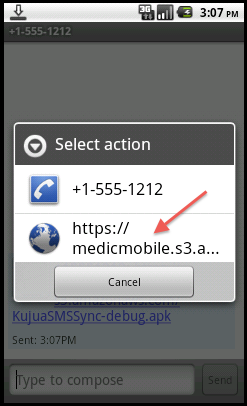
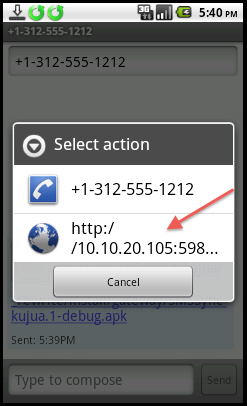
updating install docs, towards #36.

diff --git a/templates/base.html b/templates/base.html
@@ -2,6 +2,7 @@
 <html lang="en-us"> 
   <head> 
     <meta charset="utf-8">
+    <meta name="viewport" content="width=device-width, initial-scale=1.0">
     <title>{title}</title> 
     <link rel="stylesheet" type="text/css" href="{baseURL}/static/css/app.css" />
   </head>
@@ -170,8 +171,6 @@ $(function() {
   if ($('#docs').get(0)) {
     var href = $(location).attr('href'),
         slug = href.split('/').pop().split(/[^\w]+/)[0] || 'install/index';
-    console.log(href);
-    console.log(slug);
     $.ajax({
         url: '../../docs/'+ slug +'.md',
         success: function(data) { renderDoc(data, slug); },

diff --git a/docs/install/index.md b/docs/install/index.md
@@ -92,7 +92,7 @@ browser.
 
 ### Step 3: Verify the Export tool
 
-* Now append the following path to it:<br />
+* Now append the following path to it:
   ```/kujua/_design/kujua-export/_rewrite/```.<br /> In this example we use 
   ```http://10.10.20.105:5984/kujua/_design/kujua-export/_rewrite/```.
 * Verify that the Export app responds with a screen similiar to the one below.
@@ -114,11 +114,15 @@ Ushahidi](http://smssync.ushahidi.com/) as the gateway; your device needs to run
 
 ### Step 2: Download SMSSync to Device
 
-[SMSSync 1.1.9 Kujua.1](gateway/SMSSync-kujua.1-debug.apk)
+<a href="gateway/SMSSync-kujua.1-debug.apk" class="btn btn-primary">Download SMSSync 1.1.9 Kujua.1</a>
 [[md5]](gateway/SMSSync-kujua.1-debug.apk.md5)
 [[sha]](gateway/SMSSync-kujua.1-debug.apk.sha)
 
-* Open the link above on your Android browser; you can type it manually into the address bar or send it to your phone either via SMS or email. 
+* Take the URL you discovered in the previous step and append the gateway download path to it, `install/gateway/SMSSync-kujua.1-debug.apk`.<br />
+Complete example: `http://10.10.20.105:5984/kujua/_design/kujua-export/_rewrite/install/gateway/SMSSync-kujua.1-debug.apk`
+* Send the gateway download URL to the device either through SMS or email, then
+open it in your Android browser.  *Note*, you can type it manually into the
+address bar too.  
 * Choose **Accept** when Android prompts you to download.  The file is approximately 200KB and should download to your SD Card pretty quickly.
 
 ![Select Link in SMS](img/sms_select_link.png)
@@ -136,27 +140,30 @@ To install the application you have to find the apk file on your SD Card.
 
 *Note* if you do not have a file manager there are several free applications available on the Android Market.
 
-### Step 4: Configure the Sync URL
+## Configure SMSSync
+
+### Step 1: Enter the Sync URL
 
 Now configure SMSSync with the URL to our Export application:
 
 * Launch SMSSync
 * Edit Settings
 * Choose **Enter the Sync URL** option
+* Enter the Kujua Export URL you discovered in the previous step and **append one more part**: `add`.  Complete example: `http://10.10.20.105:5984/kujua/_design/kujua-export/_rewrite/add`.
+* Choose **OK**
 
-![Launch SMSSync](img/smssync_icon.png)
 ![Edit Settings](img/smssync_settings.png)
 ![Configure URL](img/smssync_config.png)
+![Input URL](img/smssync_config_url.png)
 
-* Enter the URL you discovered in the previous step and **append one more part**: `add`. 
-  e.g., `http://10.10.20.105:5984/kujua/_design/kujua-export/_rewrite/add`.
-* Choose **OK**
+### Step 2: Configure a few more options
+
 * **Start the SMS gateway**.  You will see a status icon in the notifications bar that tells you it is running.
 * Finally scroll down a bit further and set **Get Reply From Server** so the person submitting the report gets a messaging confirming it was received.
 
-![Input URL](img/smssync_config_url.png)
 ![Start](img/smssync_start.png)
 ![Get Reply From Server](img/smssync_getreply.png)
+![Enable Task Checking](img/enable_task_checking.png)
 
 *Note:* the URL is difficult to enter manually, it is less error prone to email or sms the URL to the device so you can copy and paste it into the SMSSync dialogue box.
 
